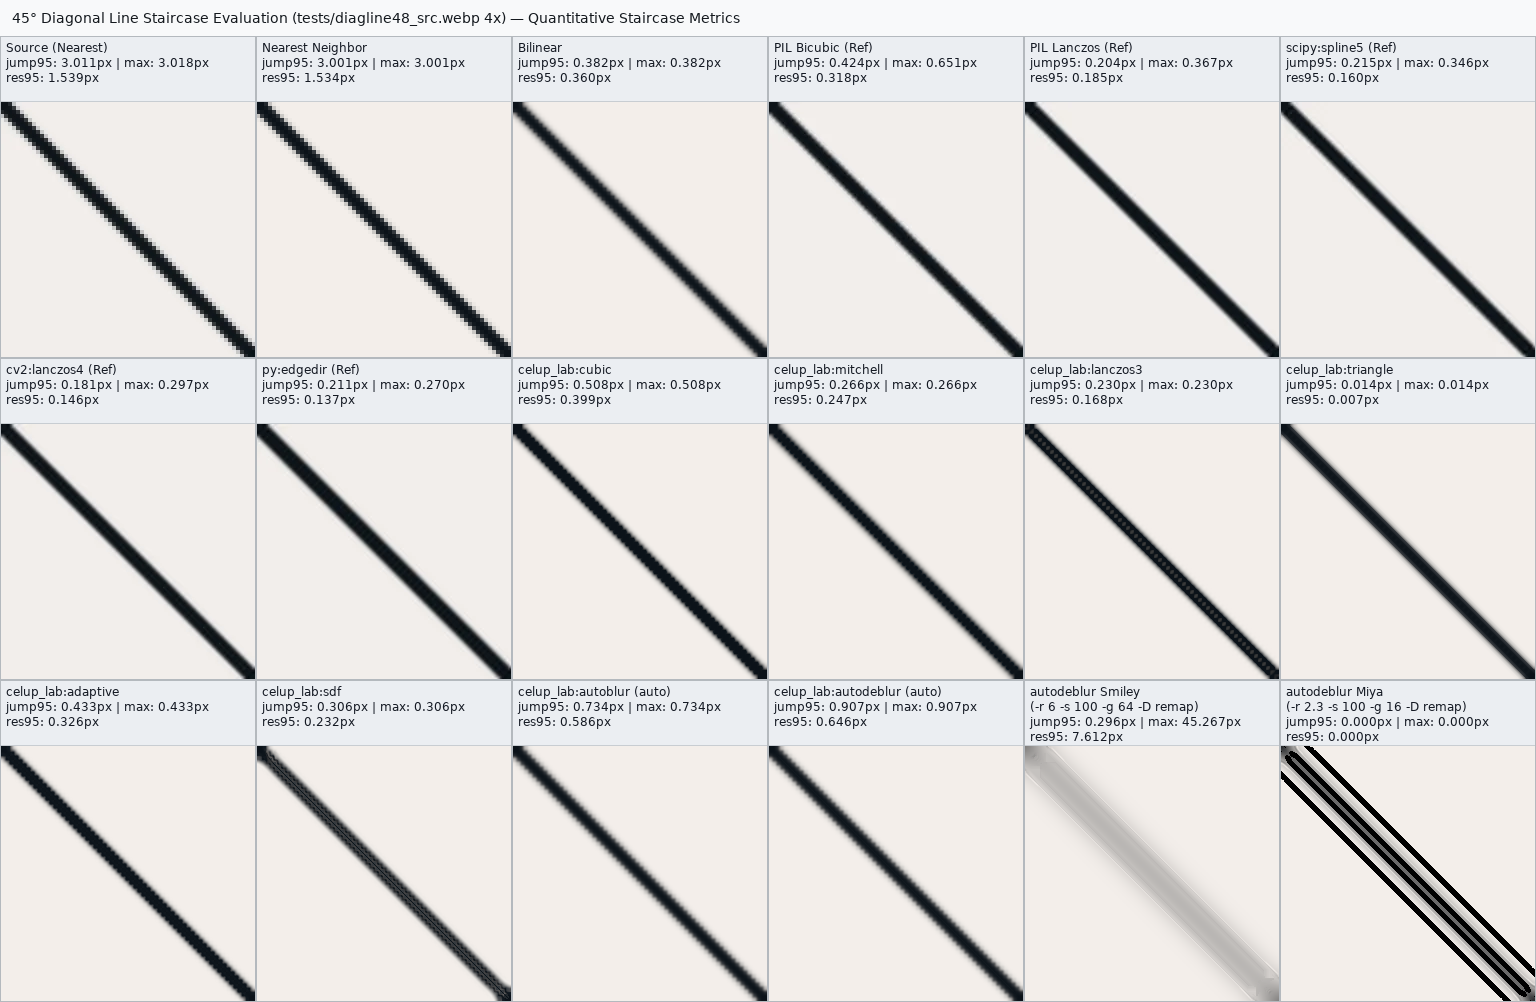
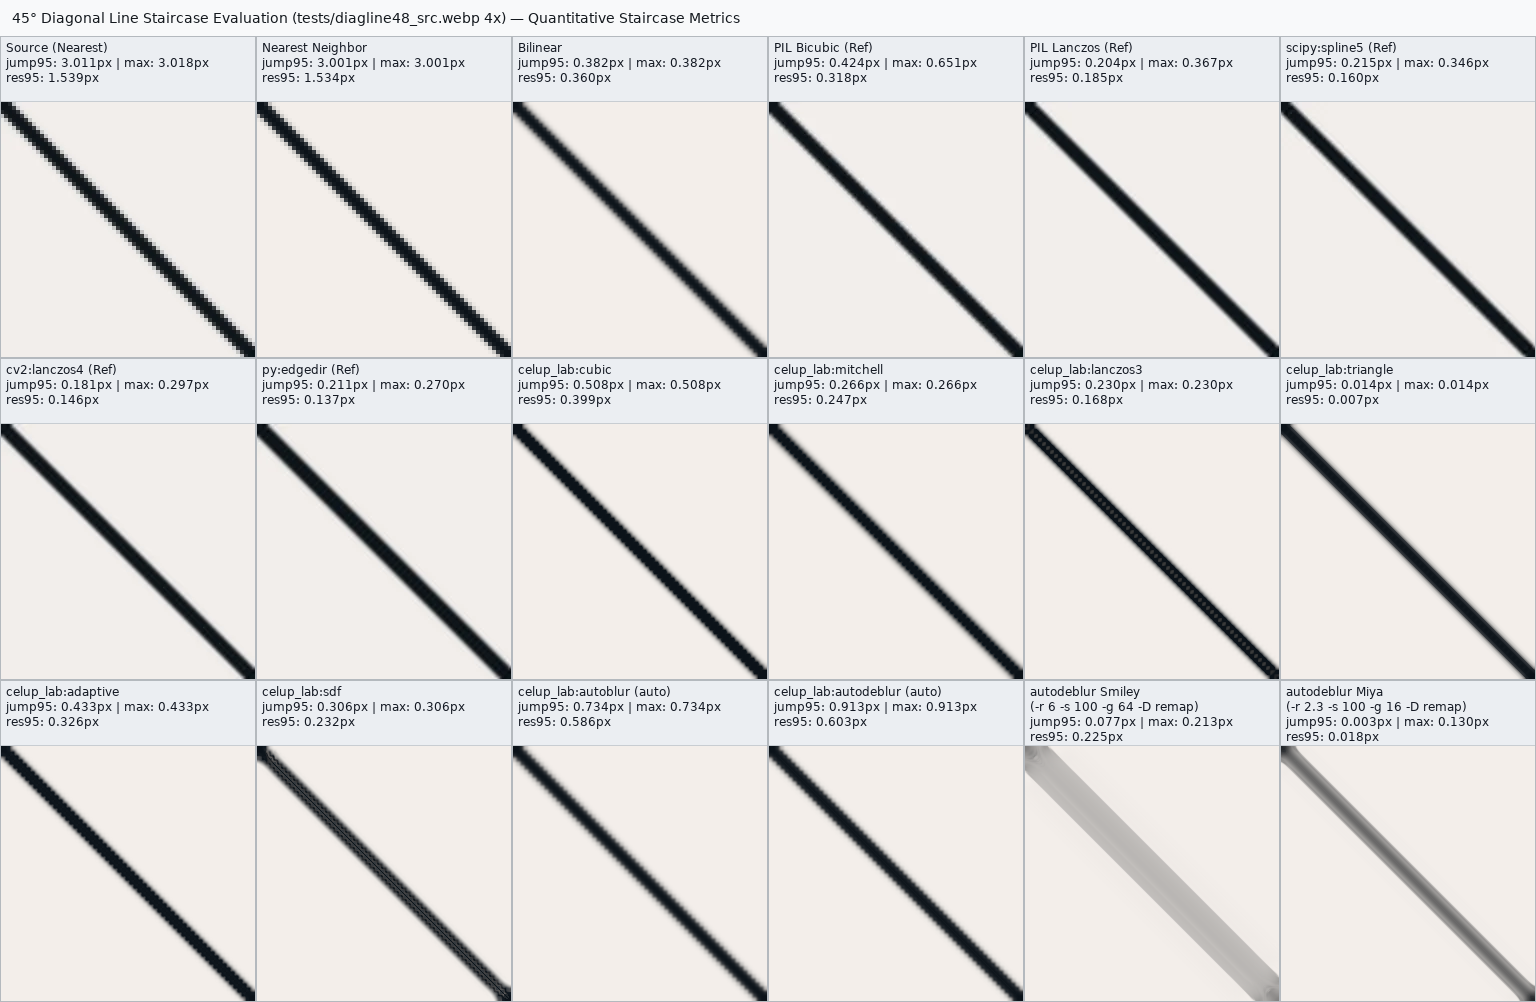
v4.9.3: fix autodeblur halo and dehourglass dgate bug; add 3x3 checker confirmation and advanced library comparison sheets

Changed region(s): [[0.8125, 0.7425, 1.0, 1.0], [0.7812, 0.7116, 0.8125, 0.7425], [0.6875, 0.7116, 0.7188, 0.7425]]

diff --git a/celup_lab.c b/celup_lab.c
@@ -268,24 +268,6 @@ static float checker2x2_confidence_pm(float p[4][4]) {
   return clampf(contrast_conf * diag_conf, 0.f, 1.f);
 }
 
-static float checker3x3_at_pm(const uint8_t *in, int sw, int sh, int cx, int cy) {
-  float p[9][4];
-  for (int dy = -1; dy <= 1; dy++)
-    for (int dx = -1; dx <= 1; dx++)
-      raw_pm(in, sw, sh, cx + dx, cy + dy, p[(dy + 1) * 3 + (dx + 1)]);
-  float d_corn = fmaxf(fmaxf(dist4_pm(p[0], p[2]), dist4_pm(p[0], p[6])),
-                       fmaxf(dist4_pm(p[0], p[8]), dist4_pm(p[0], p[4])));
-  float d_edge = fmaxf(fmaxf(dist4_pm(p[1], p[3]), dist4_pm(p[1], p[5])),
-                       dist4_pm(p[1], p[7]));
-  float d_cross = dist4_pm(p[4], p[1]);
-  if (d_cross < 1e-8f)
-    return 0.f;
-  float ratio = fmaxf(d_corn, d_edge) / d_cross;
-  float contrast_conf = ramp01(d_cross, 4e-4f, 3e-2f);
-  float pattern_conf = ramp01(ratio, .75f, .20f);
-  return clampf(contrast_conf * pattern_conf, 0.f, 1.f);
-}
-
 static void bilinear_sample_pm(const uint8_t *in, int sw, int sh, float sx,
                                float sy, float q[4], float cell[4][4]) {
   int ix = (int)floorf(sx), iy = (int)floorf(sy);
@@ -2104,12 +2086,8 @@ static float measure_edge_width30(const uint8_t *img, int w, int h,
 static int auto_tune_soft_params(const uint8_t *in, int sw, int sh, int *kk,
                                  float *sigma, int *ck, float *cp) {
   int tw = sw / 2, th = sh / 2;
-  if (tw < 4 || th < 4) {
-    /* Too small for the 2x validation proxy: keep defaults. */
-    *kk = *kk == BK_AUTO ? BK_GAUSSIAN : *kk;
-    *ck = *ck == CK_AUTO ? CK_LINEAR : *ck;
+  if (tw < 8 || th < 8)
     return 1;
-  }
   uint8_t *train = downsample_pm_box(in, sw, sh, tw, th);
   uint8_t *recon = malloc((size_t)sw * sh * 4);
   if (!train || !recon) {
@@ -2131,22 +2109,16 @@ static int auto_tune_soft_params(const uint8_t *in, int sw, int sh, int *kk,
   int best_c = *ck == CK_AUTO ? CK_LINEAR : *ck;
   double best = 1e300;
 
-  /* Stage 1: kernel + sigma with a linear gradient curve.  Record every
-     candidate score, then apply the smoothness prior: among candidates
-     within 3% of the raw best (statistical ties -- the MSE-vs-sharp-target
-     criterion cannot see blockiness) pick the largest sigma and then the
-     smoothest kernel family. */
+  int n_sig = blur_radius_set ? 1 : (int)(sizeof sigmas / sizeof sigmas[0]);
   double s1[4 * 6];
   for (size_t i = 0; i < sizeof s1 / sizeof s1[0]; i++)
     s1[i] = -1.0;
-  int n_sig = blur_radius_set ? 1 : (int)(sizeof sigmas / sizeof sigmas[0]);
   for (size_t ki = 0; ki < sizeof kernels / sizeof kernels[0]; ki++) {
     if (*kk != BK_AUTO && kernels[ki] != *kk)
       continue;
-    for (size_t si = 0; si < sizeof sigmas / sizeof sigmas[0]; si++) {
-      if (0)
-        continue;
-      if (!render_soft(train, tw, th, recon, sw, sh, kernels[ki], sigmas[si],
+    for (int si = 0; si < n_sig; si++) {
+      float sig_cand = blur_radius_set ? *sigma : sigmas[si];
+      if (!render_soft(train, tw, th, recon, sw, sh, kernels[ki], sig_cand,
                        CK_LINEAR, 0.f))
         continue;
       double score = image_pm_mse(recon, in, sw, sh, 2);
@@ -2164,9 +2136,8 @@ static int auto_tune_soft_params(const uint8_t *in, int sw, int sh, int *kk,
     for (size_t ki = 0; ki < sizeof kernels / sizeof kernels[0]; ki++) {
       if (*kk != BK_AUTO && kernels[ki] != *kk)
         continue;
-      for (size_t si = 0; si < sizeof sigmas / sizeof sigmas[0]; si++) {
-        if (0)
-          continue;
+      for (int si = 0; si < n_sig; si++) {
+        float sig_cand = blur_radius_set ? *sigma : sigmas[si];
         double score = s1[ki * 6 + si];
         if (score <= 0 || score > thr)
           continue;
@@ -2180,9 +2151,6 @@ static int auto_tune_soft_params(const uint8_t *in, int sw, int sh, int *kk,
       }
     }
   }
-  /* Stage 2: gradient curve family + parameter.  Same near-tie policy:
-     `nearest` (hard step) must win outright by >3%, otherwise the smoothest
-     tied family is kept. */
   if (*ck != CK_AUTO || best == 1e300) {
     best_c = *ck == CK_AUTO ? best_c : *ck;
   } else {
@@ -2198,11 +2166,6 @@ static int auto_tune_soft_params(const uint8_t *in, int sw, int sh, int *kk,
       if (!render_soft(train, tw, th, recon, sw, sh, best_k, best_s,
                        curves[ci].kind, curves[ci].param))
         continue;
-      /* Validation MSE is blind to blockiness/sawtooth at large scales:
-         steep curves + a floored kernel track the source staircase at any
-         scale and score equally well.  Penalize the warp's maximum slope,
-         so a steep curve must *truly* fit better (pixel art, where the MSE
-         gap is huge), and smooth content always renders smooth. */
       float steep = 0.f;
       for (int g = 0; g < 64; g++) {
         float u0 = (float)g / 64.f, u1 = (float)(g + 1) / 64.f;
